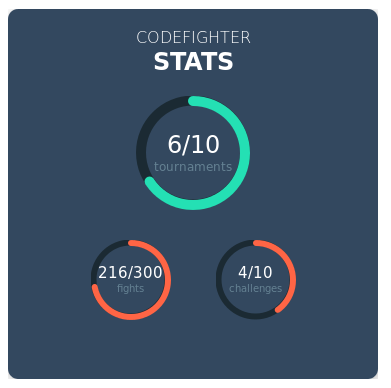
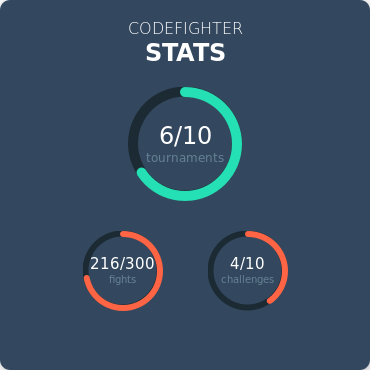
09-07-16

diff --git a/main.css b/main.css
@@ -10,6 +10,7 @@
     height: 370px;
     background-color: rgb(51,72,95);
     border-radius: 20px;
+    text-align: center;
 }
 
 /* Text */
@@ -25,6 +26,7 @@
 svg {
     margin: 0 auto;
     display: block;
+    fill:rgb(51,72,95);
 }
 
 /* Large Center Circle */
@@ -34,7 +36,7 @@ svg {
 circle.main {
     width: 115px;
     height: 115px;
-    color:none;
+    fill: rgb(51,72,95);
 }
 
 /* Progess bar */
@@ -44,13 +46,6 @@ circle.progress {
     stroke-linecap: round;
     stroke: rgb(27,42,51);
 }
-
-circle.progress:after {
-    stroke-width: 10px;
-    stroke: rgb(38,224,180);
-    z-index: 2;
-}
-
 
 
 /* smaller circles */

diff --git a/index.html b/index.html
@@ -14,6 +14,14 @@
           <svg>
             <circle class="main" cx="57" cy="57" r="52"></circle>
             <circle class="progress" cx="57" cy="57" r="52"></circle>
+            <path 
+                d="M57 57 
+                    m -3 -54
+                    a 50 50 0 0 1 5 109" 
+                stroke="green" 
+                stroke-width="9" 
+                fill="none" 
+                stroke-linecap="round"
           </svg>
           <div class="text">
             <div class="normal">6/10</div>
